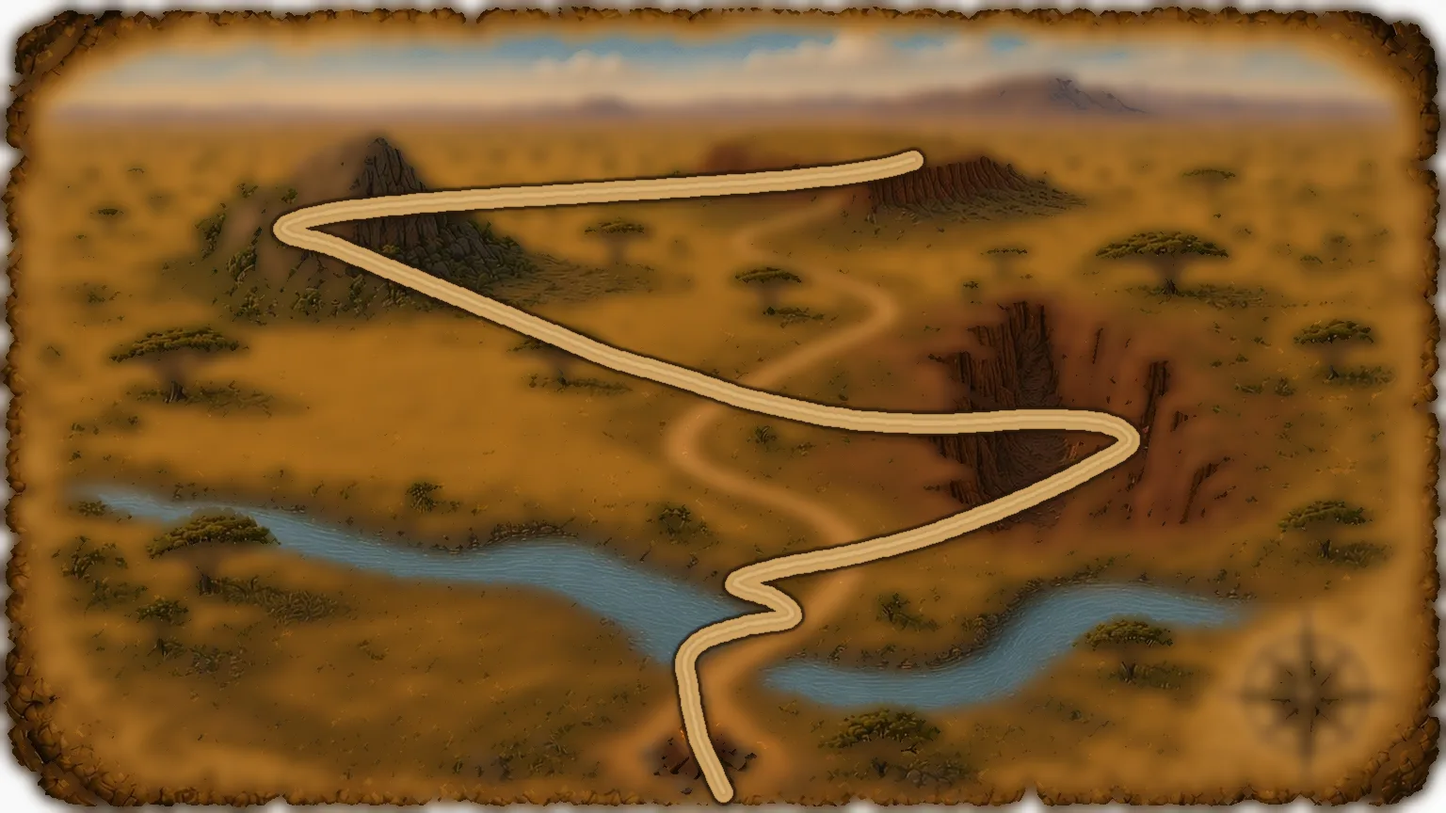
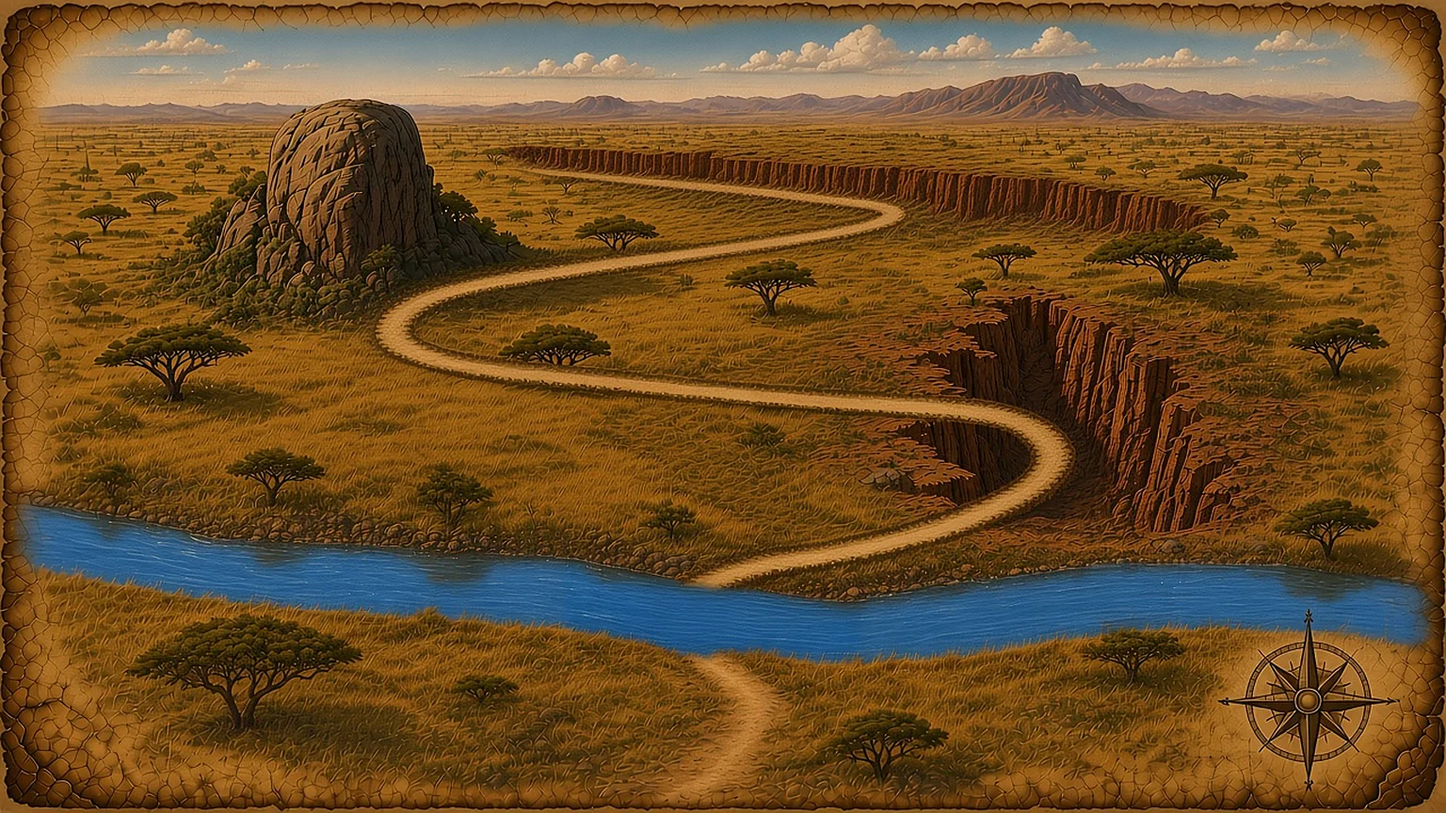
Repaint wide episode maps with one painted trail; centerline-traced dots and landmark markers

diff --git a/index.html b/index.html
@@ -1747,180 +1747,151 @@ const ASSET = n => "assets/" + n;
 const DEV = /[?&]dev=1\b/.test(location.search);
 const EP_INFO = [
   { name: "The Jungle", filter: "", soon: "", map: "map-jungle-wide", rendezvous: "The Lagoon",
-    pts: [[768, 812], [641, 655], [1120, 440], [350, 309], [895, 215]],
-    lab: [[125, -5], [50, 55], [70, 42], [-115, 28], [10, 55]],
+    pts: [[743, 801], [636, 665], [328, 464], [1116, 303], [761, 184]],
+    lab: [[110, 0], [120, 0], [-115, 45], [90, -45], [-40, 52]],
     path: [
-      [768,812],[765,808],[761,803],[758,799],[755,795],[751,791],[747,787],[743,783],
-      [739,780],[734,776],[730,772],[726,769],[722,765],[718,762],[713,758],[709,754],
-      [705,750],[701,746],[697,742],[693,737],[689,733],[686,729],[682,725],[679,721],
-      [675,717],[672,713],[668,709],[665,704],[661,700],[659,696],[656,692],[653,688],
-      [650,683],[648,679],[646,675],[645,671],[645,667],[646,662],[648,658],[650,654],
-      [653,651],[656,647],[660,645],[664,642],[669,640],[674,638],[678,636],[678,636],
-      [673,639],[669,641],[665,644],[660,646],[656,649],[651,651],[647,653],[643,654],
-      [639,655],[635,654],[631,652],[627,648],[624,644],[620,640],[616,637],[611,633],
-      [606,629],[602,625],[600,621],[600,617],[602,613],[605,609],[609,606],[613,603],
-      [617,601],[622,599],[626,598],[631,597],[636,596],[641,595],[647,594],[653,593],
-      [659,592],[665,592],[671,591],[677,590],[683,590],[689,589],[696,589],[702,588],
-      [709,588],[716,588],[722,587],[729,587],[735,586],[741,586],[747,585],[753,585],
-      [758,584],[764,583],[770,583],[775,582],[781,581],[786,580],[790,579],[794,578],
-      [799,576],[801,572],[800,568],[796,564],[792,561],[787,558],[782,556],[778,554],
-      [774,553],[768,552],[762,551],[756,550],[750,550],[744,549],[738,548],[732,547],
-      [726,547],[722,546],[718,544],[713,543],[709,541],[704,538],[700,536],[698,532],
-      [702,529],[706,528],[710,527],[715,526],[720,525],[726,524],[733,523],[739,522],
-      [746,521],[753,521],[760,520],[767,519],[774,519],[782,518],[790,518],[798,518],
-      [807,517],[815,517],[824,517],[833,516],[841,516],[850,515],[859,514],[868,514],
-      [877,513],[886,512],[895,511],[905,510],[914,509],[923,508],[932,507],[941,506],
-      [950,505],[959,504],[967,503],[976,501],[985,500],[993,499],[1002,497],[1010,496],
-      [1018,495],[1026,493],[1033,492],[1040,490],[1047,488],[1053,487],[1059,485],[1065,483],
-      [1071,481],[1076,479],[1082,477],[1087,476],[1091,474],[1096,472],[1100,470],[1104,468],
-      [1108,466],[1113,463],[1118,460],[1123,457],[1127,453],[1130,449],[1130,445],[1126,442],
-      [1122,441],[1118,439],[1114,438],[1109,436],[1104,435],[1099,433],[1095,432],[1090,432],
-      [1085,431],[1080,430],[1074,429],[1068,429],[1061,428],[1054,427],[1046,427],[1039,426],
-      [1031,426],[1023,425],[1015,425],[1007,425],[1000,425],[993,425],[985,426],[978,427],
-      [971,428],[964,429],[956,430],[949,431],[942,432],[935,433],[927,434],[920,435],
-      [913,436],[905,437],[898,438],[891,439],[884,440],[876,441],[869,442],[862,443],
-      [855,443],[847,444],[840,445],[833,446],[825,446],[818,447],[811,448],[804,448],
-      [796,449],[789,449],[782,449],[775,450],[767,450],[760,450],[753,450],[745,450],
-      [738,450],[730,449],[723,449],[715,449],[708,448],[700,447],[693,447],[687,446],
-      [680,445],[674,444],[668,443],[662,442],[656,440],[650,439],[645,438],[640,436],
-      [634,435],[629,433],[625,432],[620,430],[616,428],[611,427],[607,425],[603,423],
-      [599,421],[594,418],[589,416],[584,413],[579,409],[574,405],[571,401],[568,397],
-      [564,393],[560,390],[554,386],[549,383],[544,381],[540,379],[536,377],[532,375],
-      [528,373],[524,372],[520,370],[516,368],[512,367],[507,366],[503,364],[498,363],
-      [493,362],[489,360],[484,359],[479,358],[475,356],[470,355],[465,354],[461,352],
-      [456,351],[451,350],[447,348],[442,347],[437,345],[433,344],[428,343],[424,341],
-      [420,340],[416,339],[412,337],[408,336],[404,335],[399,332],[395,331],[390,329],
-      [385,327],[380,325],[375,323],[370,321],[366,320],[361,318],[356,315],[352,313],
-      [350,309],[351,305],[354,302],[358,300],[362,298],[368,296],[372,294],[376,293],
-      [380,292],[385,291],[390,290],[396,290],[401,289],[407,288],[414,287],[420,286],
-      [427,285],[433,285],[441,284],[448,283],[456,283],[464,282],[472,281],[481,281],
-      [490,280],[498,280],[507,279],[516,278],[524,278],[533,277],[542,276],[551,276],
-      [560,275],[569,274],[579,274],[588,273],[597,272],[606,271],[615,270],[625,270],
-      [634,269],[643,268],[653,267],[662,265],[671,264],[681,263],[690,262],[699,261],
-      [707,260],[716,259],[724,257],[732,256],[740,255],[748,254],[755,253],[762,252],
-      [770,251],[777,249],[784,248],[790,247],[797,246],[803,244],[809,243],[815,242],
-      [821,240],[827,239],[833,238],[838,236],[843,235],[848,233],[853,232],[858,231],
-      [862,229],[866,228],[870,226],[874,225],[878,223],[883,221],[889,218],[893,216],
-      [895,215]
+      [743,801],[741,795],[739,789],[736,784],[733,779],[730,774],[725,770],[721,765],
+      [717,761],[712,757],[708,754],[703,750],[698,747],[693,744],[687,741],[682,738],
+      [677,734],[672,731],[667,728],[662,725],[657,721],[652,718],[647,716],[642,712],
+      [640,706],[639,700],[639,694],[639,688],[639,682],[639,676],[638,670],[636,665],
+      [633,660],[629,655],[625,651],[621,647],[616,642],[612,638],[608,634],[603,630],
+      [599,626],[594,623],[588,621],[582,620],[576,619],[571,616],[566,613],[561,609],
+      [557,605],[553,600],[549,596],[544,592],[540,588],[535,585],[530,582],[524,579],
+      [519,576],[514,573],[508,571],[503,569],[497,567],[491,565],[485,563],[480,562],
+      [474,560],[468,559],[462,557],[456,556],[451,554],[445,552],[439,551],[433,549],
+      [428,548],[422,546],[416,544],[410,542],[405,540],[399,538],[394,536],[388,534],
+      [383,531],[378,528],[373,525],[368,521],[363,517],[358,514],[354,509],[350,505],
+      [346,501],[342,496],[338,492],[334,487],[331,482],[330,476],[328,470],[328,464],
+      [328,458],[329,452],[331,447],[334,441],[338,437],[342,432],[346,428],[351,424],
+      [355,420],[361,417],[366,415],[372,412],[377,410],[383,408],[388,406],[394,405],
+      [400,403],[406,402],[412,401],[418,400],[424,399],[429,397],[435,396],[441,395],
+      [447,394],[453,394],[459,393],[465,392],[471,392],[477,392],[483,393],[489,393],
+      [495,393],[501,394],[507,395],[513,396],[519,397],[525,398],[530,399],[536,401],
+      [542,402],[548,403],[554,405],[559,407],[565,408],[571,410],[577,411],[583,412],
+      [589,414],[594,415],[600,416],[606,418],[612,419],[618,420],[624,421],[630,421],
+      [636,422],[642,423],[648,424],[654,425],[660,425],[666,425],[672,425],[678,425],
+      [684,425],[690,424],[696,424],[702,424],[708,424],[714,423],[720,422],[725,422],
+      [731,421],[737,420],[743,419],[749,418],[755,417],[761,416],[767,415],[773,414],
+      [779,413],[785,412],[790,411],[796,409],[802,408],[808,407],[814,405],[820,404],
+      [826,404],[832,403],[838,402],[844,401],[850,401],[856,400],[861,399],[867,398],
+      [873,397],[879,396],[885,395],[891,394],[897,393],[903,392],[909,391],[915,391],
+      [921,390],[927,390],[933,389],[939,388],[944,387],[950,385],[956,384],[962,383],
+      [968,382],[974,381],[980,380],[986,379],[992,378],[998,377],[1003,375],[1009,374],
+      [1015,373],[1021,371],[1027,370],[1033,369],[1038,367],[1044,365],[1050,363],[1055,361],
+      [1061,359],[1067,357],[1072,355],[1078,353],[1083,350],[1088,346],[1093,343],[1098,339],
+      [1102,335],[1106,331],[1110,326],[1113,321],[1114,315],[1115,309],[1116,303],[1114,297],
+      [1112,292],[1109,287],[1105,282],[1101,278],[1096,274],[1091,271],[1086,267],[1081,264],
+      [1076,262],[1070,260],[1064,258],[1059,256],[1053,254],[1047,252],[1042,250],[1036,248],
+      [1030,246],[1024,245],[1018,244],[1012,243],[1007,241],[1001,240],[995,239],[989,238],
+      [983,236],[977,235],[971,234],[965,233],[960,232],[954,231],[948,229],[942,228],
+      [936,227],[930,226],[924,225],[918,224],[913,222],[907,221],[901,219],[895,218],
+      [889,216],[883,215],[878,214],[872,213],[866,211],[860,210],[854,208],[848,207],
+      [843,205],[837,204],[831,202],[825,201],[819,199],[814,198],[808,196],[802,194],
+      [796,192],[791,191],[785,189],[779,188],[773,186],[767,185],[761,184]
     ] },
   { name: "The Savanna", filter: "", soon: "", map: "map-savanna-wide", rendezvous: "The Ravine",
-    pts: [[768, 842], [728, 701], [1200, 471], [300, 245], [970, 170]],
-    lab: [[125, -5], [45, 52], [70, 42], [-105, 30], [15, 55]],
+    pts: [[776, 804], [761, 659], [1116, 484], [419, 351], [577, 182]],
+    lab: [[110, 0], [125, 5], [-120, 0], [-110, 10], [-10, -45]],
     path: [
-      [768,842],[766,838],[764,834],[762,830],[760,826],[758,820],[756,816],[754,812],
-      [752,808],[750,804],[748,800],[746,795],[744,790],[742,786],[741,782],[740,778],
-      [739,773],[738,769],[737,765],[736,760],[735,756],[734,752],[733,747],[733,742],
-      [732,738],[731,734],[731,729],[730,724],[729,719],[728,715],[727,711],[727,707],
-      [727,703],[728,699],[730,695],[732,691],[736,687],[740,683],[744,681],[748,678],
-      [753,676],[757,675],[761,673],[765,672],[770,671],[774,669],[779,668],[783,667],
-      [788,666],[792,664],[797,663],[802,663],[808,662],[814,661],[819,660],[824,660],
-      [829,659],[833,658],[837,657],[841,654],[840,650],[837,646],[832,642],[827,639],
-      [821,636],[817,633],[813,632],[808,631],[804,629],[799,628],[794,627],[789,625],
-      [784,623],[780,621],[782,617],[787,615],[791,613],[797,611],[802,610],[807,608],
-      [812,607],[817,606],[823,604],[829,603],[835,602],[842,600],[850,599],[858,598],
-      [865,596],[873,595],[881,594],[889,592],[896,591],[904,589],[911,588],[918,586],
-      [926,584],[933,582],[941,581],[948,579],[955,577],[962,575],[970,573],[977,571],
-      [983,569],[990,567],[997,565],[1003,562],[1010,560],[1016,558],[1023,555],[1029,553],
-      [1035,551],[1041,548],[1047,546],[1053,544],[1059,542],[1065,539],[1070,537],[1076,535],
-      [1081,532],[1087,530],[1092,528],[1097,526],[1102,523],[1107,521],[1112,519],[1117,517],
-      [1122,514],[1127,512],[1132,510],[1136,508],[1141,505],[1145,503],[1150,501],[1154,498],
-      [1158,496],[1162,494],[1166,492],[1171,489],[1176,487],[1180,485],[1185,482],[1189,480],
-      [1194,476],[1198,473],[1200,469],[1200,465],[1197,461],[1193,458],[1189,455],[1185,453],
-      [1181,452],[1177,451],[1173,449],[1168,448],[1162,448],[1156,447],[1149,446],[1142,446],
-      [1135,446],[1127,445],[1120,445],[1112,445],[1104,445],[1096,445],[1088,445],[1079,446],
-      [1070,446],[1061,447],[1052,448],[1042,448],[1033,449],[1023,449],[1014,450],[1005,450],
-      [995,450],[986,450],[977,450],[968,450],[959,449],[950,449],[941,449],[932,448],
-      [923,447],[914,447],[905,446],[895,444],[886,443],[877,442],[867,440],[858,438],
-      [849,436],[839,434],[830,432],[821,430],[813,428],[804,426],[796,424],[788,422],
-      [780,420],[773,417],[765,415],[758,412],[751,410],[744,408],[737,405],[730,403],
-      [723,401],[717,399],[710,397],[703,395],[696,393],[690,391],[683,390],[677,388],
-      [670,386],[664,384],[658,383],[653,381],[647,379],[642,377],[637,375],[633,374],
-      [628,372],[624,370],[619,368],[615,366],[611,365],[607,363],[602,361],[598,359],
-      [593,357],[589,355],[584,354],[580,352],[575,350],[570,348],[566,346],[561,345],
-      [557,343],[552,341],[548,339],[543,337],[539,335],[534,334],[530,332],[525,330],
-      [520,328],[516,326],[511,325],[507,323],[502,321],[498,319],[493,317],[489,315],
-      [484,314],[480,312],[475,310],[470,308],[466,306],[461,305],[457,303],[452,301],
-      [448,299],[443,297],[439,295],[434,294],[430,292],[425,290],[420,288],[416,286],
-      [411,285],[407,283],[402,281],[398,279],[393,277],[389,275],[384,273],[380,272],
-      [375,270],[370,268],[366,266],[361,264],[357,262],[352,261],[348,259],[343,258],
-      [337,256],[331,255],[326,254],[320,252],[315,251],[310,250],[306,248],[302,246],
-      [300,243],[303,239],[308,237],[313,235],[317,234],[321,232],[325,231],[330,230],
-      [335,229],[340,228],[345,227],[351,226],[357,225],[364,224],[371,223],[378,222],
-      [385,222],[392,221],[400,220],[408,219],[416,218],[425,218],[433,217],[442,216],
-      [452,215],[461,215],[470,214],[480,213],[490,213],[500,212],[510,211],[521,211],
-      [531,210],[542,209],[553,209],[564,208],[576,208],[587,207],[598,206],[609,206],
-      [620,205],[631,204],[642,204],[653,203],[664,202],[675,202],[686,201],[697,201],
-      [708,200],[719,199],[729,199],[740,198],[750,197],[761,197],[772,196],[782,195],
-      [792,195],[803,194],[813,193],[822,192],[832,192],[841,191],[850,190],[859,189],
-      [867,188],[875,187],[883,187],[891,186],[898,185],[905,184],[912,183],[918,182],
-      [924,181],[930,180],[935,179],[940,178],[945,177],[949,176],[953,175],[957,174],
-      [962,172],[966,171],[970,170]
+      [776,804],[779,799],[782,794],[786,789],[789,784],[792,779],[796,774],[799,769],
+      [801,763],[803,757],[802,751],[800,746],[796,741],[793,736],[789,731],[785,727],
+      [780,723],[775,720],[771,716],[766,712],[763,707],[761,701],[761,695],[761,689],
+      [761,683],[761,677],[761,671],[761,665],[761,659],[761,653],[761,647],[761,641],
+      [761,635],[761,629],[761,623],[763,618],[768,614],[773,611],[779,610],[785,608],
+      [791,606],[796,605],[802,603],[808,602],[814,600],[820,599],[825,598],[831,597],
+      [837,596],[843,595],[849,595],[855,594],[861,593],[867,592],[873,591],[879,590],
+      [885,589],[891,588],[897,587],[902,585],[908,584],[914,583],[920,582],[926,580],
+      [932,579],[938,578],[944,577],[949,575],[955,573],[961,572],[967,570],[972,569],
+      [978,567],[984,566],[990,564],[996,563],[1001,561],[1007,559],[1013,557],[1018,555],
+      [1024,553],[1030,551],[1035,548],[1041,546],[1046,544],[1052,541],[1057,539],[1062,536],
+      [1068,533],[1073,530],[1078,527],[1083,524],[1088,521],[1093,517],[1098,513],[1102,509],
+      [1106,505],[1110,500],[1113,495],[1116,490],[1116,484],[1115,478],[1113,472],[1109,468],
+      [1105,463],[1101,459],[1096,456],[1091,453],[1085,450],[1080,448],[1074,446],[1068,444],
+      [1062,443],[1057,441],[1051,440],[1045,439],[1039,438],[1033,438],[1027,437],[1021,436],
+      [1015,435],[1009,434],[1003,434],[997,433],[991,433],[985,433],[979,433],[973,432],
+      [967,432],[961,431],[955,431],[949,431],[943,431],[937,430],[931,430],[925,429],
+      [919,429],[913,429],[907,428],[901,428],[895,428],[889,428],[884,427],[878,426],
+      [872,426],[866,426],[860,425],[854,425],[848,424],[842,424],[836,423],[830,423],
+      [824,422],[818,422],[812,421],[806,421],[800,420],[794,420],[788,419],[782,418],
+      [776,418],[770,417],[764,417],[758,417],[752,416],[746,416],[740,415],[734,415],
+      [728,414],[722,414],[716,413],[710,412],[704,412],[698,411],[692,411],[686,410],
+      [680,409],[674,409],[668,408],[662,407],[656,407],[650,406],[645,406],[639,405],
+      [633,405],[627,404],[621,403],[615,403],[609,403],[603,402],[597,401],[591,401],
+      [585,400],[579,399],[573,399],[567,398],[561,397],[555,397],[549,397],[543,397],
+      [537,396],[531,395],[525,394],[519,393],[513,392],[507,391],[501,390],[496,389],
+      [490,388],[484,387],[478,386],[472,384],[466,383],[460,381],[455,379],[449,377],
+      [444,375],[438,372],[433,369],[428,366],[424,362],[420,357],[419,351],[420,345],
+      [422,340],[426,335],[430,331],[435,327],[440,324],[446,321],[451,319],[457,316],
+      [462,314],[468,312],[474,311],[479,309],[485,308],[491,306],[497,305],[503,304],
+      [509,302],[514,301],[520,300],[526,299],[532,298],[538,297],[544,296],[550,295],
+      [556,294],[562,293],[568,292],[574,291],[580,290],[586,290],[591,289],[597,288],
+      [603,287],[609,286],[615,285],[621,284],[627,283],[633,283],[639,282],[645,281],
+      [651,280],[657,279],[663,279],[669,278],[675,277],[681,276],[687,276],[692,275],
+      [698,274],[704,273],[710,272],[716,272],[722,271],[728,270],[734,269],[740,269],
+      [746,268],[752,267],[758,266],[764,265],[770,264],[776,264],[782,263],[788,262],
+      [794,261],[799,260],[805,259],[811,259],[817,258],[823,257],[829,256],[835,255],
+      [841,254],[847,253],[853,252],[859,252],[865,251],[871,250],[877,249],[883,247],
+      [888,246],[894,245],[900,244],[906,243],[912,242],[918,241],[924,239],[929,237],
+      [935,235],[939,230],[938,224],[934,220],[929,218],[923,217],[917,216],[911,215],
+      [905,214],[899,214],[893,213],[887,213],[881,212],[875,212],[869,211],[863,210],
+      [857,210],[851,209],[845,208],[839,207],[833,206],[827,206],[821,205],[815,205],
+      [809,204],[804,203],[798,203],[792,202],[786,201],[780,201],[774,200],[768,200],
+      [762,199],[756,198],[750,198],[744,198],[738,197],[732,197],[726,196],[720,196],
+      [714,195],[708,194],[702,194],[696,193],[690,193],[684,193],[678,192],[672,191],
+      [666,191],[660,190],[654,190],[648,189],[642,189],[636,188],[630,187],[624,186],
+      [618,186],[612,185],[606,185],[600,185],[594,184],[589,183],[583,183],[577,182]
     ] },
   { name: "Mountain Crossing", filter: "", soon: "", map: "map-mountain-wide", rendezvous: "The Summit",
-    pts: [[768, 830], [355, 565], [1220, 380], [310, 269], [899, 165]],
-    lab: [[125, -5], [-105, 38], [70, 42], [-115, 32], [5, 55]],
+    pts: [[687, 795], [450, 602], [1101, 467], [520, 320], [881, 143]],
+    lab: [[-110, 0], [-120, -45], [110, 0], [-60, 50], [110, 10]],
     path: [
-      [768,830],[765,826],[761,822],[756,817],[752,812],[748,808],[744,804],[739,800],
-      [733,794],[729,790],[725,788],[722,785],[717,781],[713,778],[710,775],[707,772],
-      [703,770],[698,765],[694,763],[691,760],[687,757],[682,753],[678,750],[674,748],
-      [670,745],[666,742],[662,739],[657,737],[653,734],[648,731],[644,728],[639,726],
-      [634,723],[630,720],[625,718],[620,715],[615,713],[610,710],[605,708],[600,706],
-      [595,703],[590,701],[585,699],[580,697],[575,694],[570,692],[565,690],[560,688],
-      [555,685],[550,683],[545,681],[540,679],[535,676],[530,674],[525,672],[520,670],
-      [515,667],[510,665],[505,663],[500,660],[495,658],[490,656],[484,654],[479,651],
-      [474,649],[469,647],[464,645],[460,642],[455,640],[450,638],[446,635],[442,633],
-      [437,631],[433,629],[429,626],[425,624],[421,622],[417,620],[413,617],[408,614],
-      [404,610],[399,607],[394,602],[390,599],[385,595],[382,592],[377,588],[371,583],
-      [365,578],[361,575],[358,571],[355,567],[355,563],[357,559],[360,555],[364,552],
-      [369,549],[374,547],[378,546],[382,544],[387,543],[392,543],[398,542],[404,541],
-      [411,541],[418,541],[425,540],[432,540],[439,540],[446,540],[454,540],[461,540],
-      [469,541],[477,541],[485,542],[494,542],[502,543],[511,544],[519,544],[528,545],
-      [536,545],[544,545],[552,545],[560,545],[569,544],[577,544],[585,543],[593,543],
-      [601,542],[610,542],[618,541],[626,540],[634,540],[642,539],[651,538],[659,537],
-      [667,537],[676,536],[684,535],[692,534],[700,533],[708,532],[716,531],[724,529],
-      [732,528],[741,527],[750,526],[758,524],[767,523],[775,521],[782,520],[789,519],
-      [794,517],[800,515],[803,512],[802,508],[797,505],[792,503],[787,502],[782,500],
-      [778,500],[772,499],[765,498],[758,498],[750,497],[742,497],[734,497],[725,497],
-      [717,496],[710,496],[703,495],[697,495],[691,494],[684,493],[678,492],[671,491],
-      [666,490],[660,489],[656,488],[651,487],[652,484],[657,483],[662,482],[669,481],
-      [676,480],[683,479],[691,478],[700,477],[708,476],[716,475],[724,475],[732,474],
-      [740,473],[749,472],[758,471],[768,470],[777,469],[786,469],[796,468],[806,467],
-      [815,466],[825,464],[835,463],[845,462],[855,461],[865,459],[875,458],[885,457],
-      [895,455],[905,454],[915,452],[925,451],[935,449],[944,448],[954,446],[963,444],
-      [972,442],[981,440],[990,438],[999,437],[1008,435],[1017,433],[1026,431],[1034,429],
-      [1043,427],[1052,425],[1060,423],[1069,422],[1078,420],[1086,418],[1094,416],[1102,414],
-      [1109,412],[1117,411],[1123,409],[1130,408],[1136,406],[1142,405],[1148,404],[1153,402],
-      [1158,401],[1163,400],[1168,398],[1173,397],[1178,396],[1182,394],[1187,393],[1192,392],
-      [1197,390],[1202,389],[1206,388],[1210,386],[1214,385],[1219,382],[1219,378],[1215,375],
-      [1211,373],[1205,371],[1201,370],[1196,368],[1191,367],[1185,366],[1180,365],[1174,364],
-      [1168,363],[1162,363],[1155,362],[1147,361],[1140,361],[1132,361],[1124,360],[1116,360],
-      [1108,360],[1100,360],[1092,360],[1083,360],[1074,361],[1065,361],[1056,362],[1047,362],
-      [1037,363],[1028,363],[1018,364],[1009,365],[1000,365],[991,365],[982,366],[973,367],
-      [964,367],[955,368],[945,368],[936,369],[927,369],[918,370],[909,370],[900,370],
-      [891,370],[882,370],[873,369],[864,369],[855,369],[845,368],[836,368],[827,367],
-      [818,366],[809,366],[800,365],[791,364],[782,363],[772,363],[763,362],[753,361],
-      [744,360],[735,359],[726,358],[717,357],[708,356],[700,355],[692,354],[684,353],
-      [676,352],[669,351],[661,350],[654,350],[647,349],[640,348],[633,347],[626,346],
-      [620,345],[614,344],[608,343],[602,342],[597,342],[591,341],[586,340],[581,339],
-      [576,338],[571,337],[565,336],[560,335],[555,334],[549,333],[543,331],[538,330],
-      [532,329],[527,327],[521,326],[516,324],[510,323],[505,321],[500,320],[495,319],
-      [490,317],[486,316],[481,315],[477,313],[472,312],[468,310],[463,309],[459,308],
-      [455,306],[450,305],[445,304],[441,302],[436,301],[432,299],[427,298],[423,297],
-      [418,295],[414,294],[409,293],[405,291],[400,290],[395,289],[391,288],[386,286],
-      [381,285],[377,284],[372,283],[367,282],[363,281],[358,280],[354,279],[350,278],
-      [346,277],[341,276],[336,275],[332,275],[327,274],[323,273],[319,272],[314,271],
-      [310,269],[311,265],[314,262],[320,258],[325,255],[329,254],[333,252],[338,251],
-      [342,249],[347,248],[353,247],[359,246],[365,245],[371,244],[378,243],[385,243],
-      [392,242],[399,241],[406,240],[414,240],[421,239],[429,239],[437,238],[445,238],
-      [454,237],[462,237],[471,237],[479,236],[488,236],[496,235],[504,235],[512,234],
-      [520,234],[529,233],[537,232],[545,232],[553,231],[561,231],[570,230],[578,229],
-      [586,228],[594,228],[602,227],[611,226],[619,225],[627,224],[636,223],[644,222],
-      [652,222],[660,221],[668,220],[676,219],[684,217],[692,216],[699,215],[707,214],
-      [714,213],[722,212],[729,210],[736,209],[743,208],[750,207],[757,206],[763,204],
-      [769,203],[775,202],[781,201],[786,200],[792,199],[797,197],[802,196],[807,195],
-      [812,194],[817,193],[822,191],[827,190],[832,189],[837,188],[842,186],[847,185],
-      [851,184],[856,182],[860,181],[864,180],[868,179],[872,177],[877,175],[882,173],
-      [887,171],[892,169],[897,167],[899,165]
+      [687,795],[681,793],[676,790],[672,786],[669,781],[670,775],[673,770],[678,766],
+      [684,764],[689,762],[695,761],[701,760],[707,758],[713,757],[719,755],[724,754],
+      [730,752],[736,750],[741,746],[743,741],[742,735],[738,731],[733,727],[728,725],
+      [722,723],[716,722],[710,720],[704,719],[699,717],[693,716],[687,716],[681,715],
+      [675,714],[669,712],[663,711],[657,710],[651,709],[645,708],[640,706],[634,705],
+      [628,703],[622,702],[616,700],[611,699],[605,697],[599,695],[593,693],[588,691],
+      [582,689],[577,687],[571,684],[566,682],[561,679],[555,676],[550,673],[545,669],
+      [541,665],[536,662],[531,658],[526,655],[521,651],[516,648],[511,645],[506,642],
+      [501,639],[495,636],[490,634],[484,632],[479,629],[474,626],[468,623],[463,620],
+      [458,617],[454,613],[451,608],[450,602],[452,597],[456,592],[461,589],[466,586],
+      [472,584],[477,582],[483,581],[489,580],[495,579],[501,578],[507,577],[513,576],
+      [519,576],[525,575],[531,575],[537,574],[543,573],[549,573],[555,572],[561,572],
+      [567,572],[573,571],[579,571],[585,570],[591,570],[597,570],[603,569],[609,569],
+      [615,568],[621,568],[627,567],[633,567],[639,566],[645,566],[651,566],[656,565],
+      [662,565],[668,564],[674,564],[680,564],[686,563],[692,562],[698,562],[704,562],
+      [710,562],[716,561],[722,561],[728,560],[734,560],[740,559],[746,558],[752,557],
+      [758,557],[764,556],[770,555],[776,554],[782,553],[788,552],[794,551],[800,550],
+      [805,549],[811,548],[817,547],[823,546],[829,545],[835,544],[841,543],[847,541],
+      [853,540],[858,539],[864,538],[870,537],[876,535],[882,534],[888,532],[894,531],
+      [899,530],[905,529],[911,527],[917,526],[923,525],[929,523],[935,522],[940,521],
+      [946,519],[952,518],[958,517],[964,516],[970,514],[976,513],[981,511],[987,510],
+      [993,508],[999,507],[1005,506],[1011,505],[1016,503],[1022,502],[1028,501],[1034,499],
+      [1040,497],[1045,496],[1051,494],[1057,493],[1063,491],[1069,490],[1074,488],[1080,486],
+      [1086,484],[1091,481],[1096,478],[1100,473],[1101,467],[1099,462],[1095,457],[1091,454],
+      [1085,450],[1080,448],[1074,446],[1069,444],[1063,442],[1057,440],[1051,439],[1046,438],
+      [1040,436],[1034,435],[1028,434],[1022,432],[1016,431],[1010,430],[1004,429],[999,428],
+      [993,427],[987,426],[981,425],[975,424],[969,423],[963,423],[957,422],[951,421],
+      [945,420],[939,419],[933,419],[927,418],[921,418],[915,417],[909,417],[903,416],
+      [897,416],[891,415],[885,415],[879,414],[873,414],[867,413],[861,413],[855,413],
+      [849,412],[844,412],[838,411],[832,410],[826,409],[820,409],[814,409],[808,408],
+      [802,407],[796,406],[790,405],[784,404],[778,403],[772,403],[766,402],[760,401],
+      [754,400],[748,399],[742,398],[737,397],[731,396],[725,395],[719,394],[713,394],
+      [707,393],[701,392],[695,391],[689,389],[683,388],[677,387],[672,386],[666,384],
+      [660,383],[654,382],[648,380],[643,378],[637,376],[631,374],[626,372],[620,371],
+      [614,369],[609,366],[603,364],[598,362],[592,359],[587,357],[581,355],[575,352],
+      [570,350],[564,349],[558,347],[553,344],[547,342],[542,339],[537,336],[532,333],
+      [527,329],[523,325],[520,320],[520,314],[524,309],[528,305],[534,302],[539,300],
+      [545,299],[551,298],[557,297],[563,296],[569,295],[575,294],[581,293],[587,291],
+      [592,290],[598,289],[604,288],[610,287],[616,286],[622,285],[628,284],[634,284],
+      [640,283],[646,282],[652,281],[658,280],[664,279],[670,278],[675,277],[681,276],
+      [687,275],[693,274],[699,273],[705,271],[710,269],[715,265],[718,260],[717,254],
+      [714,249],[709,246],[704,243],[698,241],[693,239],[687,236],[682,234],[677,230],
+      [674,225],[674,219],[677,215],[682,212],[688,210],[694,208],[700,207],[706,206],
+      [712,205],[717,204],[723,203],[729,202],[735,201],[741,200],[747,199],[753,198],
+      [759,197],[765,196],[771,195],[777,194],[782,192],[788,191],[794,190],[800,189],
+      [806,187],[812,186],[817,184],[823,183],[829,181],[835,179],[840,177],[846,174],
+      [851,171],[856,167],[859,163],[863,158],[866,153],[871,149],[876,146],[881,143]
     ] }
 ];
 const LV_INFO = [
